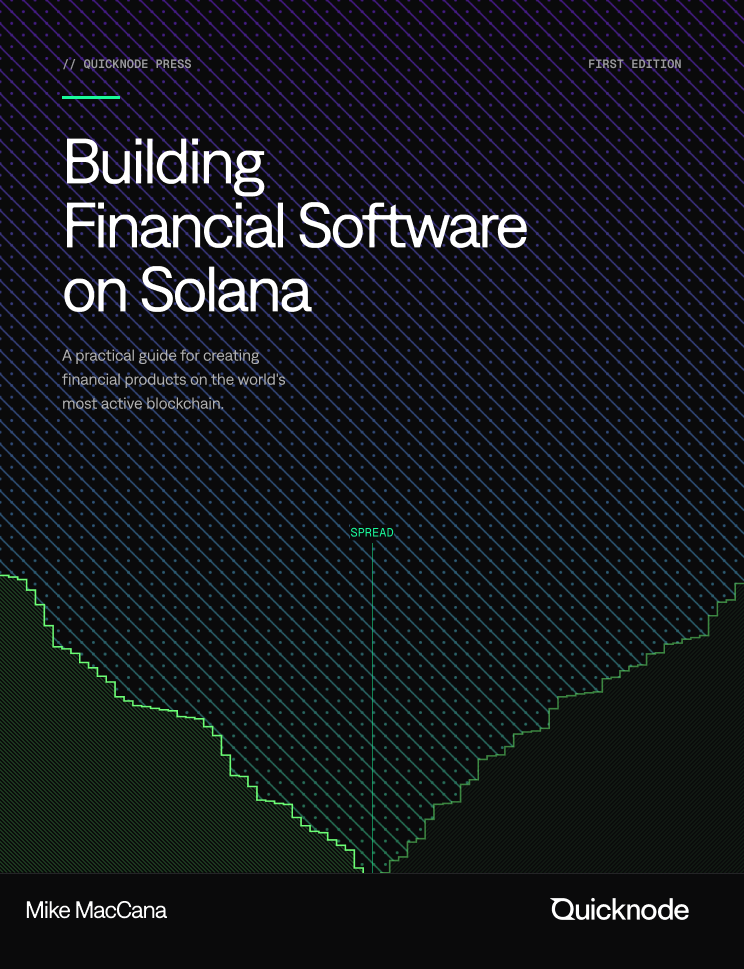
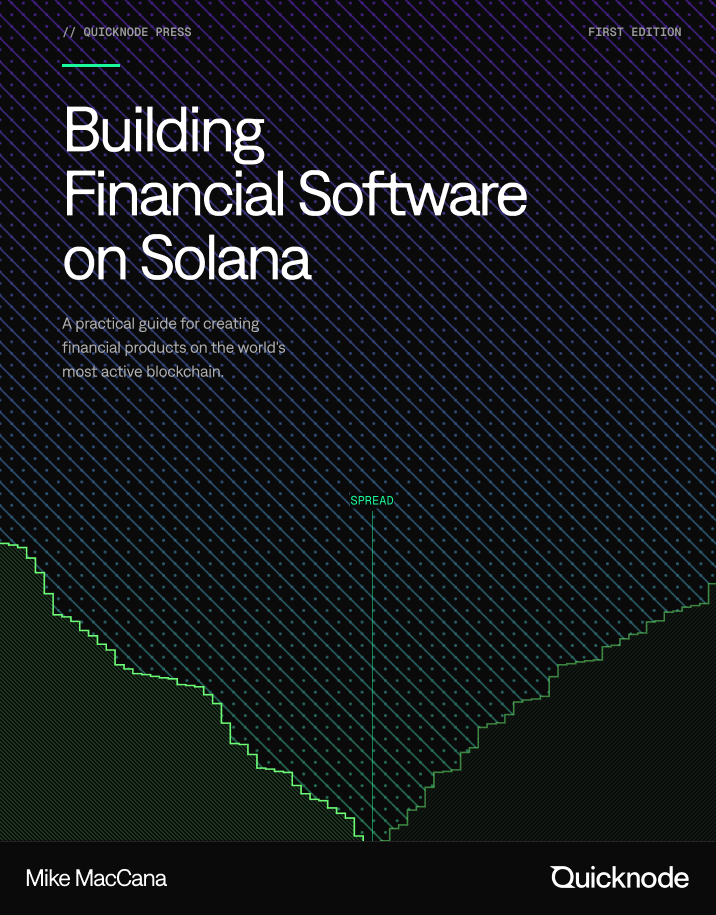
Crop the book cover and rename the page title.

diff --git a/app/book/page.tsx b/app/book/page.tsx
@@ -13,14 +13,14 @@ export default function BookPage() {
   return (
     <main>
       <p className="kicker page-kicker">Book</p>
-      <h1 className="page-title">The Solana finance book</h1>
+      <h1 className="page-title">The Solana Book</h1>
       <div className="book">
         <img
           className="cover"
           src="/images/book-cover.png"
           alt="Cover of Building Financial Software on Solana, by Mike MacCana"
-          width={744}
-          height={969}
+          width={716}
+          height={915}
         />
         <div>
           <p>
